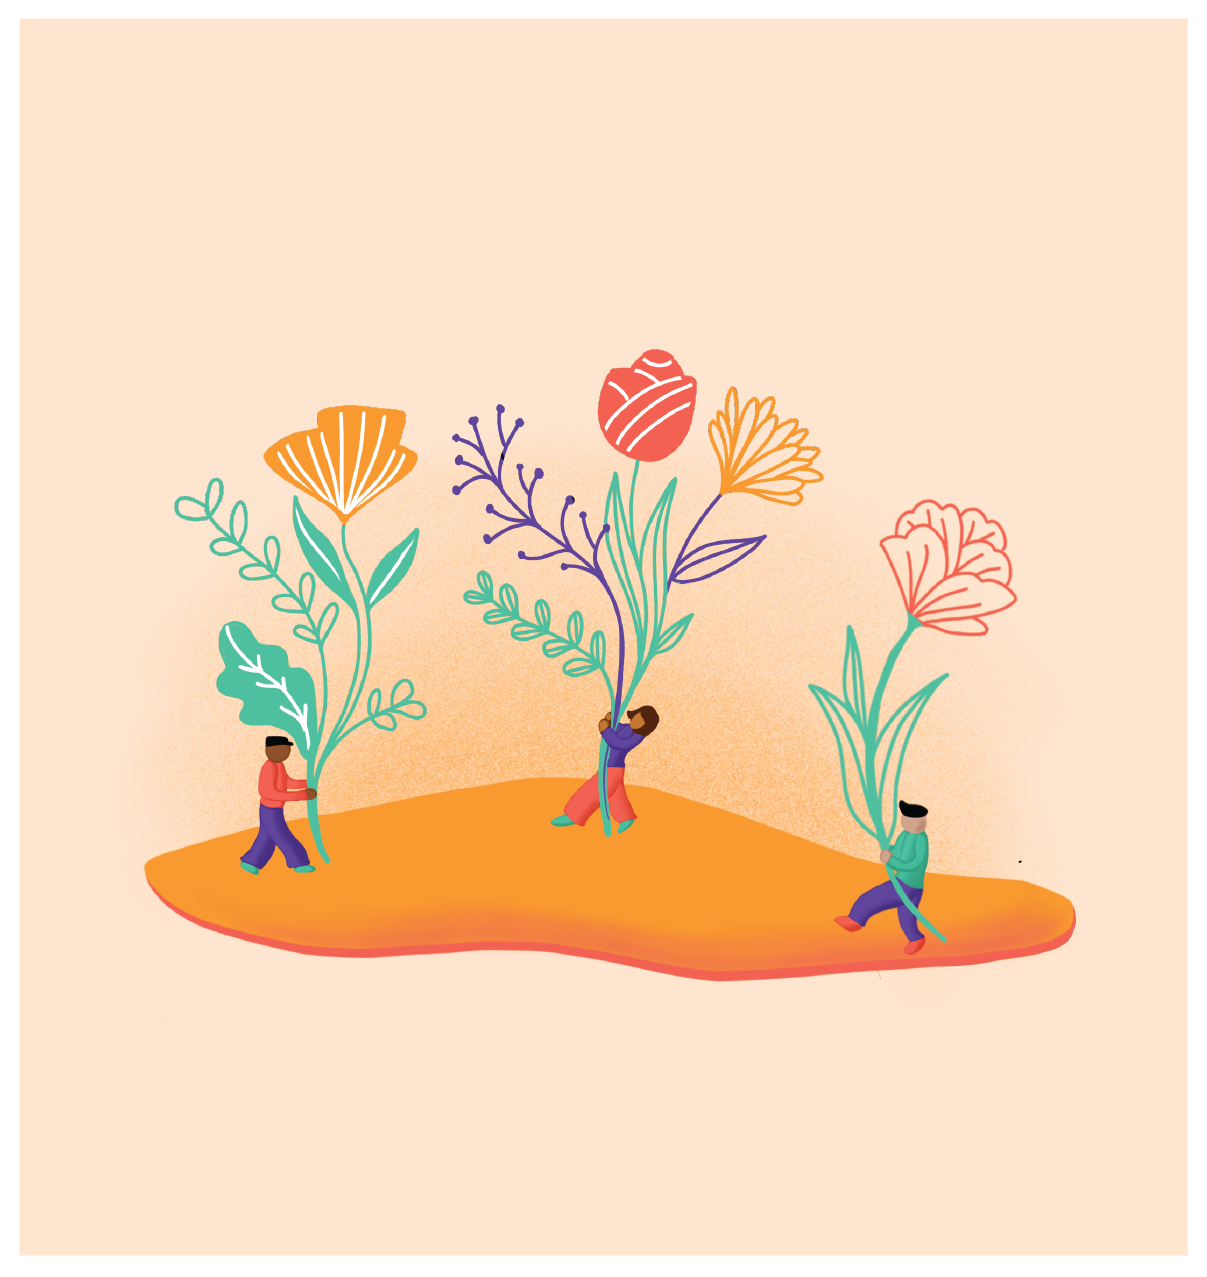
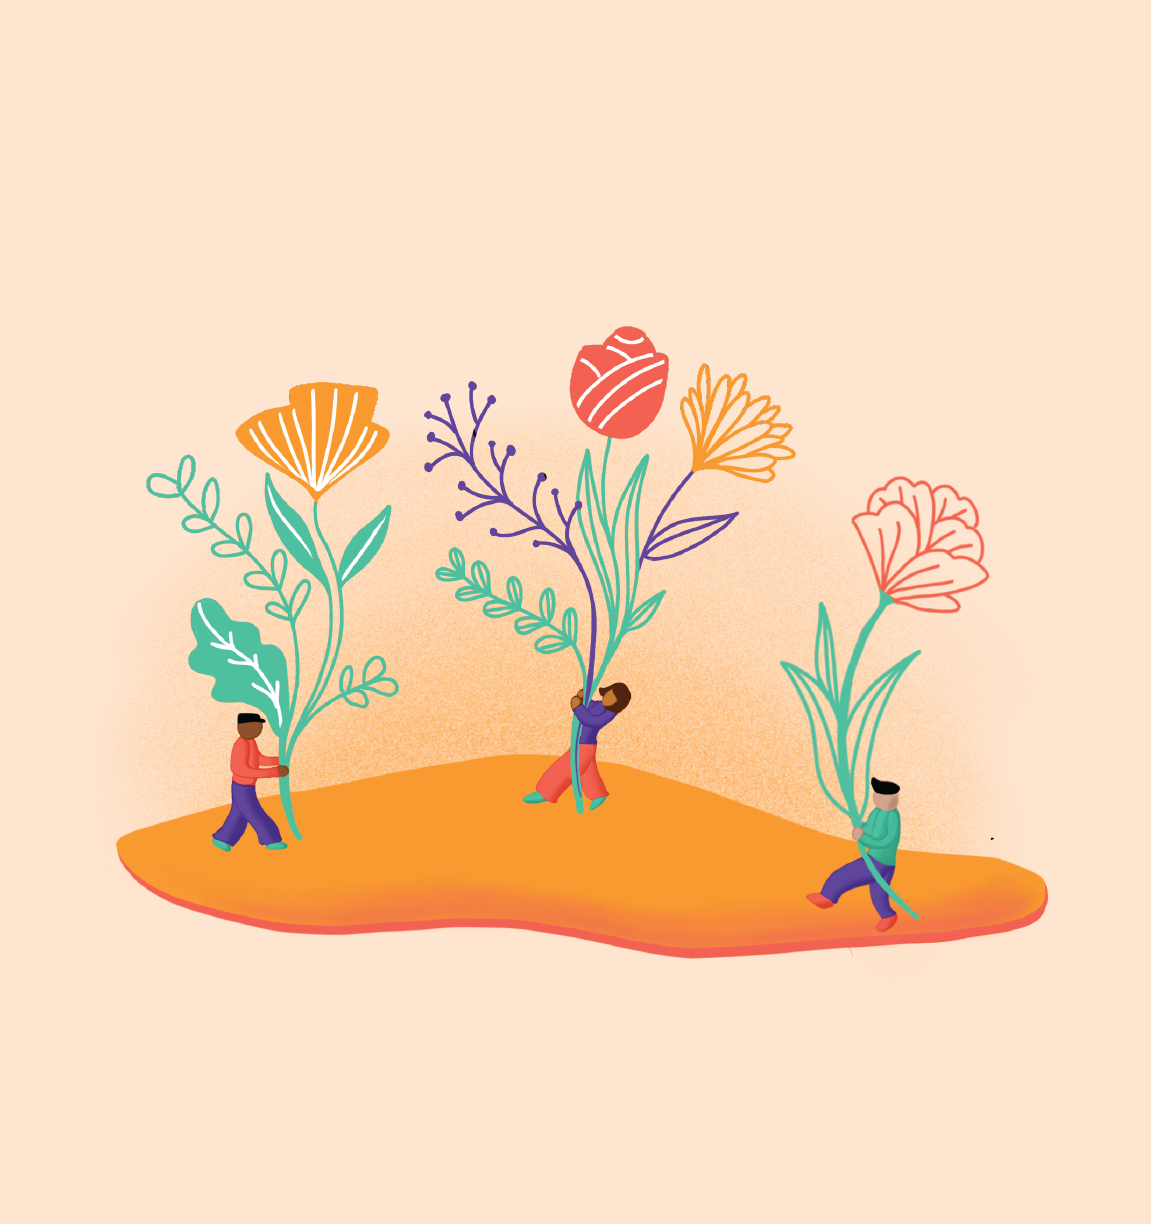
more images, edited the images

Changed region(s): [[0.0912, 0.2484, 0.9123, 0.8072], [0.0, 0.0, 1.0, 1.0]]

diff --git a/styles/HStyle.css b/styles/HStyle.css
@@ -10,7 +10,7 @@
 
 
 nav a{
-    color: black;
+    color: #444444;
 }
 
 .title{
@@ -79,11 +79,12 @@ nav a{
 .post_title{
     background-color: #FF9B2A;
     padding-left: 8vw;
-    height: 100vh;
+    height: 90vh;
 
 }
 
 .post_title h2{
+    position: relative;
     font-size: 40px;
     font-weight: bold;
     color: white;
@@ -91,6 +92,16 @@ nav a{
     margin-right: 8vw;
     padding-top: 20vh;
     line-height: 1.5;
+    z-index: 5;
+}
+
+.post_title .flowers{
+    position: absolute;
+    width: 40vw;
+    height: 48vw;
+    top: 115vh;
+    z-index: 1;
+    box-shadow: 0px 0px 15px grey;
 }
 
 /*

diff --git a/index.html b/index.html
@@ -34,6 +34,7 @@
         </div>
 
         <div class="post_title">
+            <img class= "flowers" src="assets/Homepage/02_homepage_holdingflowers-01.png">
             <h2>When we braid wisdom
             across generations, we
             have tremendous power
